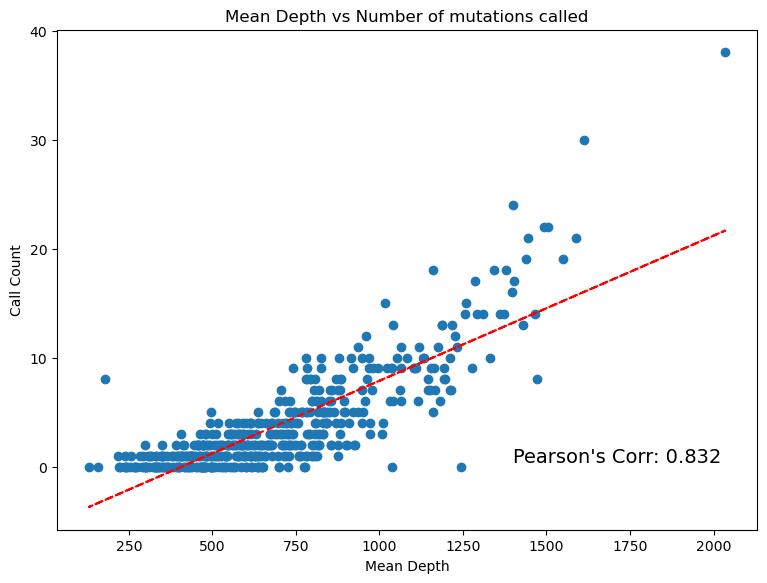
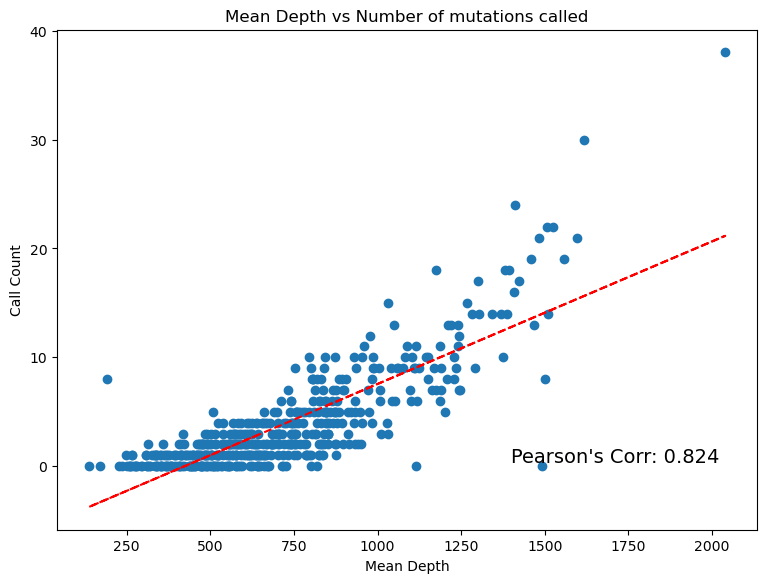
Added more visualizations and modifications to existing ones.

diff --git a/scripts/AnalyzeMutCalls.py b/scripts/AnalyzeMutCalls.py
@@ -226,6 +226,11 @@ def get_by_gene(calls):
     mean_depth = genes_means.depth.to_list()
     mean_vaf = genes_means.vaf.to_list()
 
+    uniq_variants = calls.groupby('gene').agg({'func': 'nunique', 'library' : 'nunique'})
+    condlist = [uniq_variants['library'].lt(10), (uniq_variants['library'].gt(9)&uniq_variants['library'].lt(100))]
+    choicelist = ['<10', '10 - 100']
+    uniq_variants['# of Libraries'] = np.select(condlist, choicelist, '>100')
+
     genes = []
     call_counts = []
     vafs = []
@@ -241,7 +246,7 @@ def get_by_gene(calls):
         call_counts.append(len(vafs_list))
 
     return {'mdn_depths' : mdn_depths, 'mean_depth' : mean_depth, 'mdn_vafs' : mdn_vafs, 
-            'mean_vaf': mean_vaf, 'ages': ages, 'vafs': vafs, 'genes': genes, 'cts':call_counts}
+            'mean_vaf': mean_vaf, 'ages': ages, 'vafs': vafs, 'genes': genes, 'cts':call_counts, 'uniq_variants': uniq_variants}
 
 
 
@@ -679,6 +684,23 @@ def main():
         plt.savefig(file_path, bbox_inches = 'tight')
         plt.close()
 
+        # Plot median depth by gene
+        y_data = by_gene['mdn_depths']
+        x_data = by_gene['genes']
+        fig = plt.figure(figsize =(8, 5))
+        ax = fig.add_axes([0, 0, 1, 1])
+        bp = ax.bar(x_data, y_data, width=0.8)
+        plt.title('Median Depth of each Gene')
+        plt.ylabel('Median Depth')
+        plt.xlabel('Gene')
+        plt.margins(x=0)
+        ax.set_xticks(range(len(x_data)))
+        ax.set_xticklabels(x_data, rotation=45, ha = 'right')
+        file_path = os.path.join(path, 'by_gene/_MedianDepth')
+        plt.savefig(file_path, bbox_inches = 'tight')
+        plt.close()
+
+
        # Plot call counts by Gene
         y_data = by_gene['cts']
         x_data = by_gene['genes']
@@ -729,6 +751,24 @@ def main():
         plt.close()
 
 
+
+        # Plot # of unique variants by gene across libraries 
+        fig = plt.figure(figsize=(10, 6))
+        ax = fig.add_axes([0, 0, 1, 1]) 
+        pal = sns.color_palette("Set2", by_gene['uniq_variants']['# of Libraries'].nunique())
+        bar = sns.barplot(data=by_gene['uniq_variants'], x='gene', y='func', hue='# of Libraries', hue_order = set(by_gene['uniq_variants']['# of Libraries']), palette = pal)
+        plt.title(f'# of Unique Variants by Gene Across Libraries ({len(obj['libs'])} Libraries)')
+        plt.xlabel('Gene', fontsize=14)
+        plt.ylabel('Count')
+        plt.xticks(rotation=45)
+        for container in bar.containers:
+            ax.bar_label(container)
+        file_path = os.path.join(path,'by_gene/_NumUniqueVariantsAcrossLibs')
+        plt.savefig(file_path, bbox_inches = 'tight')
+        plt.close()
+
+
+
 # Plot all vafs by depth (scatter) color coded by gene ID
         y_data = [item for sublist in obj['vafs']for item in sublist]
         x_data = [item for sublist in obj['depths'] for item in sublist]
@@ -750,7 +790,7 @@ def main():
 
         # Plot call counts by mean depth (scatter)
         y_data = obj['call_counts']
-        x_data = mds['unfil_depths']
+        x_data = means['unfil_depths']
         corr, _ = pearsonr(y_data, x_data)
         print(k + ' - Pearsons correlation: %.3f' % corr)
 
@@ -779,9 +819,26 @@ def main():
         plt.ylabel('Median VAF')
         plt.xlabel('Median Depth')
         plt.yscale('log')
+        file_path = os.path.join(path, '_MedianVafsbyMedianDepth')
+        plt.savefig(file_path, bbox_inches = 'tight')
+        plt.close()
+
+
+         # Plot median vafs by median depth (scatter)
+        y_data = means['vafs']
+        x_data = means['depths']
+        fig = plt.figure(figsize =(15, 5))
+        ax = fig.add_axes([0, 0, 1, 1])
+        bp = ax.scatter(x_data, y_data)
+        plt.title('Mean Depth vs Median VAF')
+        plt.ylabel('Mean VAF')
+        plt.xlabel('Mean Depth')
+        plt.yscale('log')
         file_path = os.path.join(path, '_MeanVafsbyMeanDepth')
         plt.savefig(file_path, bbox_inches = 'tight')
         plt.close()
+
+
 
 
         # Plot Distribution of Supporting Reads for all Mutations
@@ -843,6 +900,7 @@ def main():
         file_path = os.path.join(path,'_CtDistAcrossLibs')
         plt.savefig(file_path, bbox_inches = 'tight')
         plt.close()
+        
 
         print("Plots generated for", k)
 
